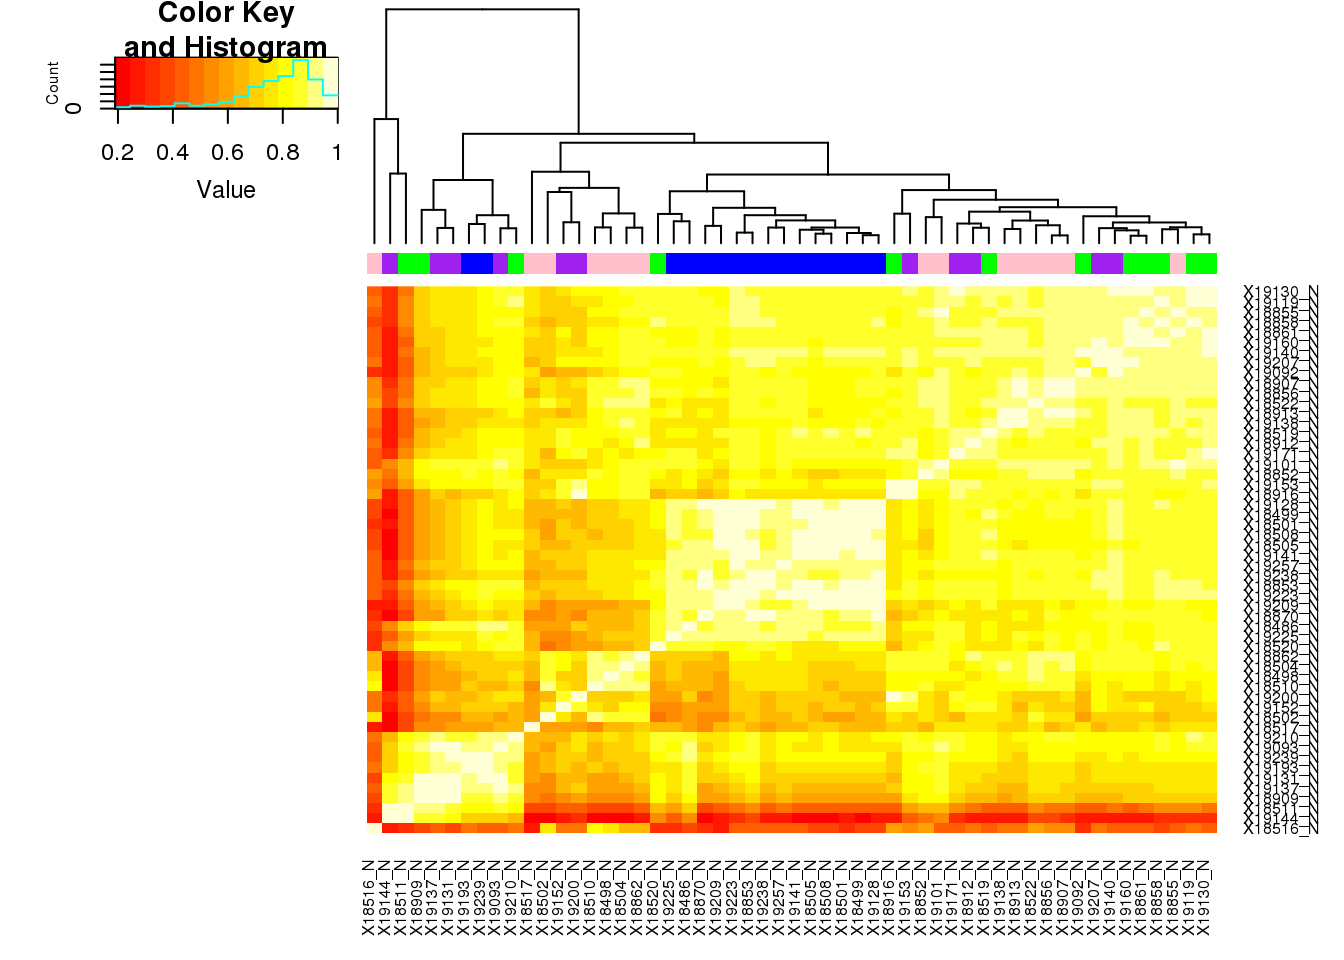
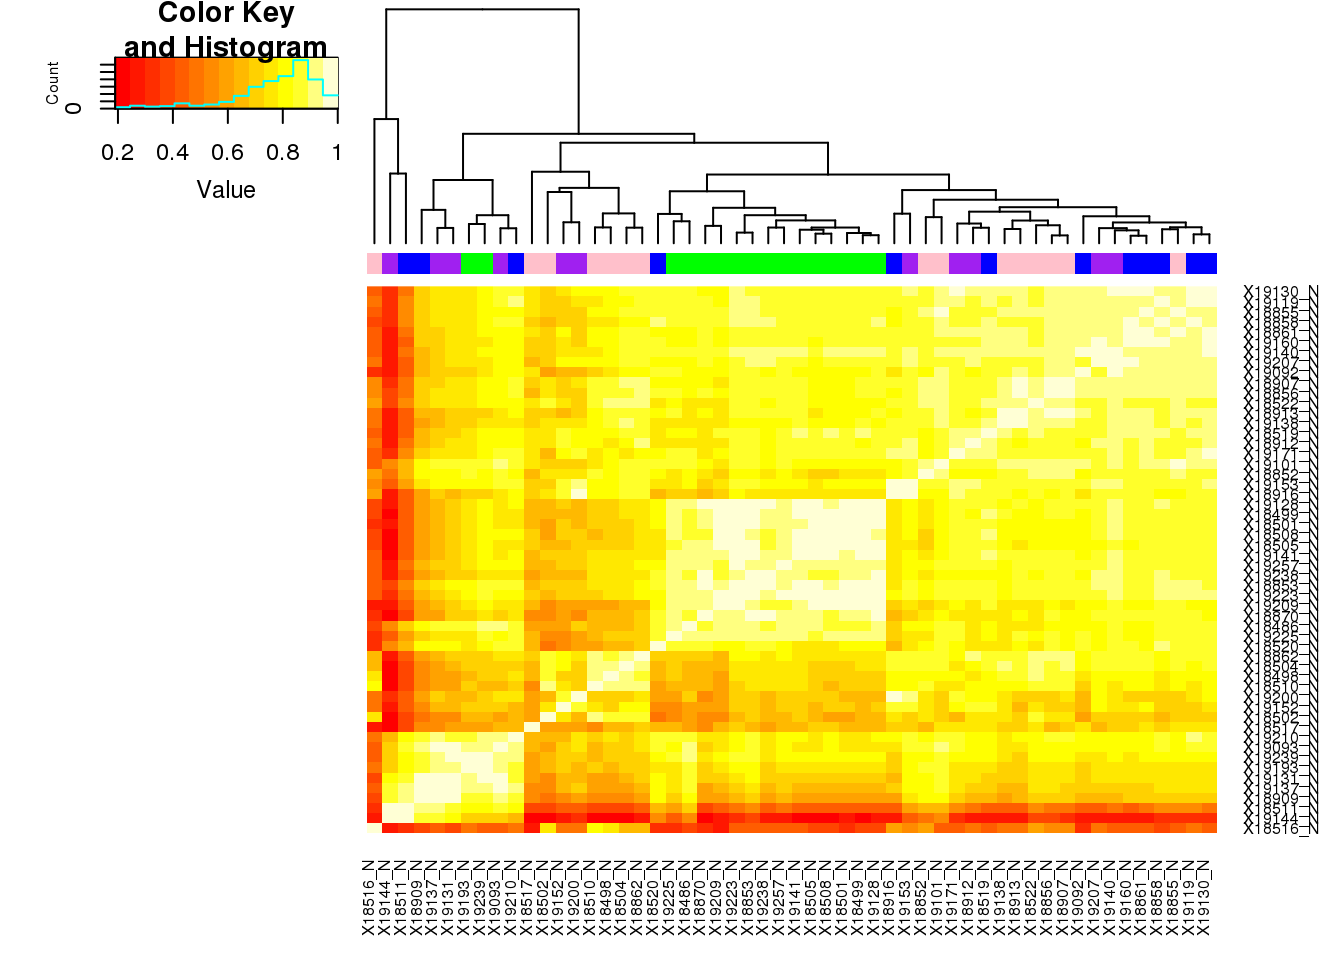
Build site.

diff --git a/docs/corrbetweenind.html b/docs/corrbetweenind.html
@@ -422,10 +422,10 @@ This reproducible <a href="http://rmarkdown.rstudio.com">R Markdown</a> analysis
 <div class="panel panel-default">
 <div class="panel-heading">
 <p class="panel-title">
-<a data-toggle="collapse" data-parent="#workflowr-checks" href="#strongRepositoryversionstrongahrefhttpsgithubcombrimittlemanapaQTLtreeeb89a2516c1568deff0fcc8624c8e3639439d1cctargetblankeb89a25a"> <span class="glyphicon glyphicon-ok text-success" aria-hidden="true"></span> <strong>Repository version:</strong> <a href="https://github.com/brimittleman/apaQTL/tree/eb89a2516c1568deff0fcc8624c8e3639439d1cc" target="_blank">eb89a25</a> </a>
+<a data-toggle="collapse" data-parent="#workflowr-checks" href="#strongRepositoryversionstrongahrefhttpsgithubcombrimittlemanapaQTLtree8139519dafb94a2b6c5b8a31e69049211cbf7782targetblank8139519a"> <span class="glyphicon glyphicon-ok text-success" aria-hidden="true"></span> <strong>Repository version:</strong> <a href="https://github.com/brimittleman/apaQTL/tree/8139519dafb94a2b6c5b8a31e69049211cbf7782" target="_blank">8139519</a> </a>
 </p>
 </div>
[2 lines of base64/hex data omitted]
 <div class="panel-body">
 <p>
 Great! You are using Git for version control. Tracking code development and connecting the code version to the results is critical for reproducibility. The version displayed above was the version of the Git repository at the time these results were generated. <br><br> Note that you need to be careful to ensure that all relevant files for the analysis have been committed to Git prior to generating the results (you can use <code>wflow_publish</code> or <code>wflow_git_commit</code>). workflowr only checks the R Markdown file, but you know if there are other scripts or data files that it depends on. Below is the status of the Git repository when the results were generated:
@@ -597,6 +597,40 @@ Message
 Rmd
 </td>
 <td>
+<a href="https://github.com/brimittleman/apaQTL/blob/8139519dafb94a2b6c5b8a31e69049211cbf7782/analysis/corrbetweenind.Rmd" target="_blank">8139519</a>
+</td>
+<td>
+brimittleman
+</td>
+<td>
+2019-04-25
+</td>
+<td>
+fix color order
+</td>
+</tr>
+<tr>
+<td>
+html
+</td>
+<td>
+<a href="https://rawcdn.githack.com/brimittleman/apaQTL/88373310417a2a038938215d0054f8fbfa424fc1/docs/corrbetweenind.html" target="_blank">8837331</a>
+</td>
+<td>
+brimittleman
+</td>
+<td>
+2019-04-25
+</td>
+<td>
+Build site.
+</td>
+</tr>
+<tr>
+<td>
+Rmd
+</td>
+<td>
 <a href="https://github.com/brimittleman/apaQTL/blob/eb89a2516c1568deff0fcc8624c8e3639439d1cc/analysis/corrbetweenind.Rmd" target="_blank">eb89a25</a>
 </td>
 <td>
@@ -751,18 +785,93 @@ totCount_corr_melt=melt(totCount_corr)</code></pre>
 <p>Plot heatmap:</p>
 <pre class="r"><code>ggplot(data = totCount_corr_melt, aes(x=Var1, y=Var2, fill=value)) + 
   geom_tile() +theme(axis.text.x = element_text(angle = 90))</code></pre>
-<p><img src="figure/corrbetweenind.Rmd/unnamed-chunk-5-1.png" width="672" style="display: block; margin: auto;" /> Use heatmap2.</p>
+<p><img src="figure/corrbetweenind.Rmd/unnamed-chunk-5-1.png" width="672" style="display: block; margin: auto;" /></p>
+<p>
+<button type="button" class="btn btn-default btn-xs btn-workflowr btn-workflowr-fig" data-toggle="collapse" data-target="#fig-unnamed-chunk-5-1">
+Past versions of unnamed-chunk-5-1.png
+</button>
+</p>
+<div id="fig-unnamed-chunk-5-1" class="collapse">
+<div class="table-responsive">
+<table class="table table-condensed table-hover">
+<thead>
+<tr>
+<th>
+Version
+</th>
+<th>
+Author
+</th>
+<th>
+Date
+</th>
+</tr>
+</thead>
+<tbody>
+<tr>
+<td>
+<a href="https://github.com/brimittleman/apaQTL/blob/88373310417a2a038938215d0054f8fbfa424fc1/docs/figure/corrbetweenind.Rmd/unnamed-chunk-5-1.png" target="_blank">8837331</a>
+</td>
+<td>
+brimittleman
+</td>
+<td>
+2019-04-25
+</td>
+</tr>
+</tbody>
+</table>
+</div>
+</div>
+<p>Use heatmap2.</p>
 <pre class="r"><code>meta_TBatch=meta_T %&gt;% select(samp,batch)
 
 target=colnames(totCount_corr)
 meta_TBatch$samp &lt;- reorder.factor(meta_TBatch$samp, new.order=target)
 meta_TBatch_order=meta_TBatch %&gt;% arrange(samp)
 
-meta_TBatch_order = meta_TBatch_order %&gt;% mutate(color=ifelse(batch==&quot;1&quot;, &quot;blue&quot;, ifelse(batch==&quot;2&quot;, &quot;green&quot;, ifelse(batch==&quot;3&quot;, &quot;purple&quot;, &quot;pink&quot;))))
+meta_TBatch_order = meta_TBatch_order %&gt;% mutate(color=ifelse(batch==&quot;1&quot;, &quot;green&quot;, ifelse(batch==&quot;2&quot;, &quot;blue&quot;, ifelse(batch==&quot;3&quot;, &quot;purple&quot;, &quot;pink&quot;))))
 
 
 heatmap.2(as.matrix(totCount_corr),trace=&quot;none&quot;, dendrogram =c(&quot;col&quot;), ColSideColors =meta_TBatch_order$color, key=T)</code></pre>
 <p><img src="figure/corrbetweenind.Rmd/unnamed-chunk-6-1.png" width="672" style="display: block; margin: auto;" /></p>
+<p>
+<button type="button" class="btn btn-default btn-xs btn-workflowr btn-workflowr-fig" data-toggle="collapse" data-target="#fig-unnamed-chunk-6-1">
+Past versions of unnamed-chunk-6-1.png
+</button>
+</p>
+<div id="fig-unnamed-chunk-6-1" class="collapse">
+<div class="table-responsive">
+<table class="table table-condensed table-hover">
+<thead>
+<tr>
+<th>
+Version
+</th>
+<th>
+Author
+</th>
+<th>
+Date
+</th>
+</tr>
+</thead>
+<tbody>
+<tr>
+<td>
+<a href="https://github.com/brimittleman/apaQTL/blob/88373310417a2a038938215d0054f8fbfa424fc1/docs/figure/corrbetweenind.Rmd/unnamed-chunk-6-1.png" target="_blank">8837331</a>
+</td>
+<td>
+brimittleman
+</td>
+<td>
+2019-04-25
+</td>
+</tr>
+</tbody>
+</table>
+</div>
+</div>
 </div>
 <div id="nuclear" class="section level3">
 <h3>Nuclear</h3>
@@ -775,12 +884,49 @@ nucCount_corr_melt=melt(nucCount_corr)</code></pre>
 <pre class="r"><code>ggplot(data = nucCount_corr_melt, aes(x=Var1, y=Var2, fill=value)) + 
   geom_tile() +theme(axis.text.x = element_text(angle = 90))</code></pre>
 <p><img src="figure/corrbetweenind.Rmd/unnamed-chunk-9-1.png" width="672" style="display: block; margin: auto;" /></p>
+<p>
+<button type="button" class="btn btn-default btn-xs btn-workflowr btn-workflowr-fig" data-toggle="collapse" data-target="#fig-unnamed-chunk-9-1">
+Past versions of unnamed-chunk-9-1.png
+</button>
+</p>
+<div id="fig-unnamed-chunk-9-1" class="collapse">
+<div class="table-responsive">
+<table class="table table-condensed table-hover">
+<thead>
+<tr>
+<th>
+Version
+</th>
+<th>
+Author
+</th>
+<th>
+Date
+</th>
+</tr>
+</thead>
+<tbody>
+<tr>
+<td>
+<a href="https://github.com/brimittleman/apaQTL/blob/88373310417a2a038938215d0054f8fbfa424fc1/docs/figure/corrbetweenind.Rmd/unnamed-chunk-9-1.png" target="_blank">8837331</a>
+</td>
+<td>
+brimittleman
+</td>
+<td>
+2019-04-25
+</td>
+</tr>
+</tbody>
+</table>
+</div>
+</div>
 <pre class="r"><code>meta_NBatch=meta_N %&gt;% select(samp,batch)
 target=colnames(nucCount_corr)
 meta_NBatch$samp &lt;- reorder.factor(meta_NBatch$samp, new.order=target)
 meta_NBatch_order=meta_NBatch %&gt;% arrange(samp)
 
-meta_NBatch_order = meta_NBatch_order %&gt;% mutate(color=ifelse(batch==&quot;1&quot;, &quot;blue&quot;, ifelse(batch==&quot;2&quot;, &quot;green&quot;, ifelse(batch==&quot;3&quot;, &quot;purple&quot;, &quot;pink&quot;))))
+meta_NBatch_order = meta_NBatch_order %&gt;% mutate(color=ifelse(batch==&quot;1&quot;, &quot;green&quot;, ifelse(batch==&quot;2&quot;, &quot;blue&quot;, ifelse(batch==&quot;3&quot;, &quot;purple&quot;, &quot;pink&quot;))))
 
 
 heatmap.2(as.matrix(nucCount_corr),trace=&quot;none&quot;, dendrogram =c(&quot;col&quot;), ColSideColors =meta_NBatch_order$color, key=T)</code></pre>
@@ -807,6 +953,17 @@ Date
 </tr>
 </thead>
 <tbody>
+<tr>
+<td>
+<a href="https://github.com/brimittleman/apaQTL/blob/88373310417a2a038938215d0054f8fbfa424fc1/docs/figure/corrbetweenind.Rmd/unnamed-chunk-10-1.png" target="_blank">8837331</a>
+</td>
+<td>
+brimittleman
+</td>
+<td>
+2019-04-25
+</td>
+</tr>
 <tr>
 <td>
 <a href="https://github.com/brimittleman/apaQTL/blob/b2525c343bc47d98f6ff2e82c969a014866b1c95/docs/figure/corrbetweenind.Rmd/unnamed-chunk-10-1.png" target="_blank">b2525c3</a>
@@ -861,6 +1018,17 @@ Date
 <tbody>
 <tr>
 <td>
+<a href="https://github.com/brimittleman/apaQTL/blob/88373310417a2a038938215d0054f8fbfa424fc1/docs/figure/corrbetweenind.Rmd/unnamed-chunk-13-1.png" target="_blank">8837331</a>
+</td>
+<td>
+brimittleman
+</td>
+<td>
+2019-04-25
+</td>
+</tr>
+<tr>
+<td>
 <a href="https://github.com/brimittleman/apaQTL/blob/b2525c343bc47d98f6ff2e82c969a014866b1c95/docs/figure/corrbetweenind.Rmd/unnamed-chunk-13-1.png" target="_blank">b2525c3</a>
 </td>
 <td>
@@ -886,6 +1054,43 @@ nucUsage_corr_melt=melt(nucUsage_corr)</code></pre>
 <pre class="r"><code>ggplot(data = nucUsage_corr_melt, aes(x=Var1, y=Var2, fill=value)) + 
   geom_tile() +theme(axis.text.x = element_text(angle = 90))</code></pre>
 <p><img src="figure/corrbetweenind.Rmd/unnamed-chunk-16-1.png" width="672" style="display: block; margin: auto;" /></p>
+<p>
+<button type="button" class="btn btn-default btn-xs btn-workflowr btn-workflowr-fig" data-toggle="collapse" data-target="#fig-unnamed-chunk-16-1">
+Past versions of unnamed-chunk-16-1.png
+</button>
+</p>
+<div id="fig-unnamed-chunk-16-1" class="collapse">
+<div class="table-responsive">
+<table class="table table-condensed table-hover">
+<thead>
+<tr>
+<th>
+Version
+</th>
+<th>
+Author
+</th>
+<th>
+Date
+</th>
+</tr>
+</thead>
+<tbody>
+<tr>
+<td>
+<a href="https://github.com/brimittleman/apaQTL/blob/88373310417a2a038938215d0054f8fbfa424fc1/docs/figure/corrbetweenind.Rmd/unnamed-chunk-16-1.png" target="_blank">8837331</a>
+</td>
+<td>
+brimittleman
+</td>
+<td>
+2019-04-25
+</td>
+</tr>
+</tbody>
+</table>
+</div>
+</div>
 <br>
 <p>
 <button type="button" class="btn btn-default btn-workflowr btn-workflowr-sessioninfo" data-toggle="collapse" data-target="#workflowr-sessioninfo" style="display: block;">
